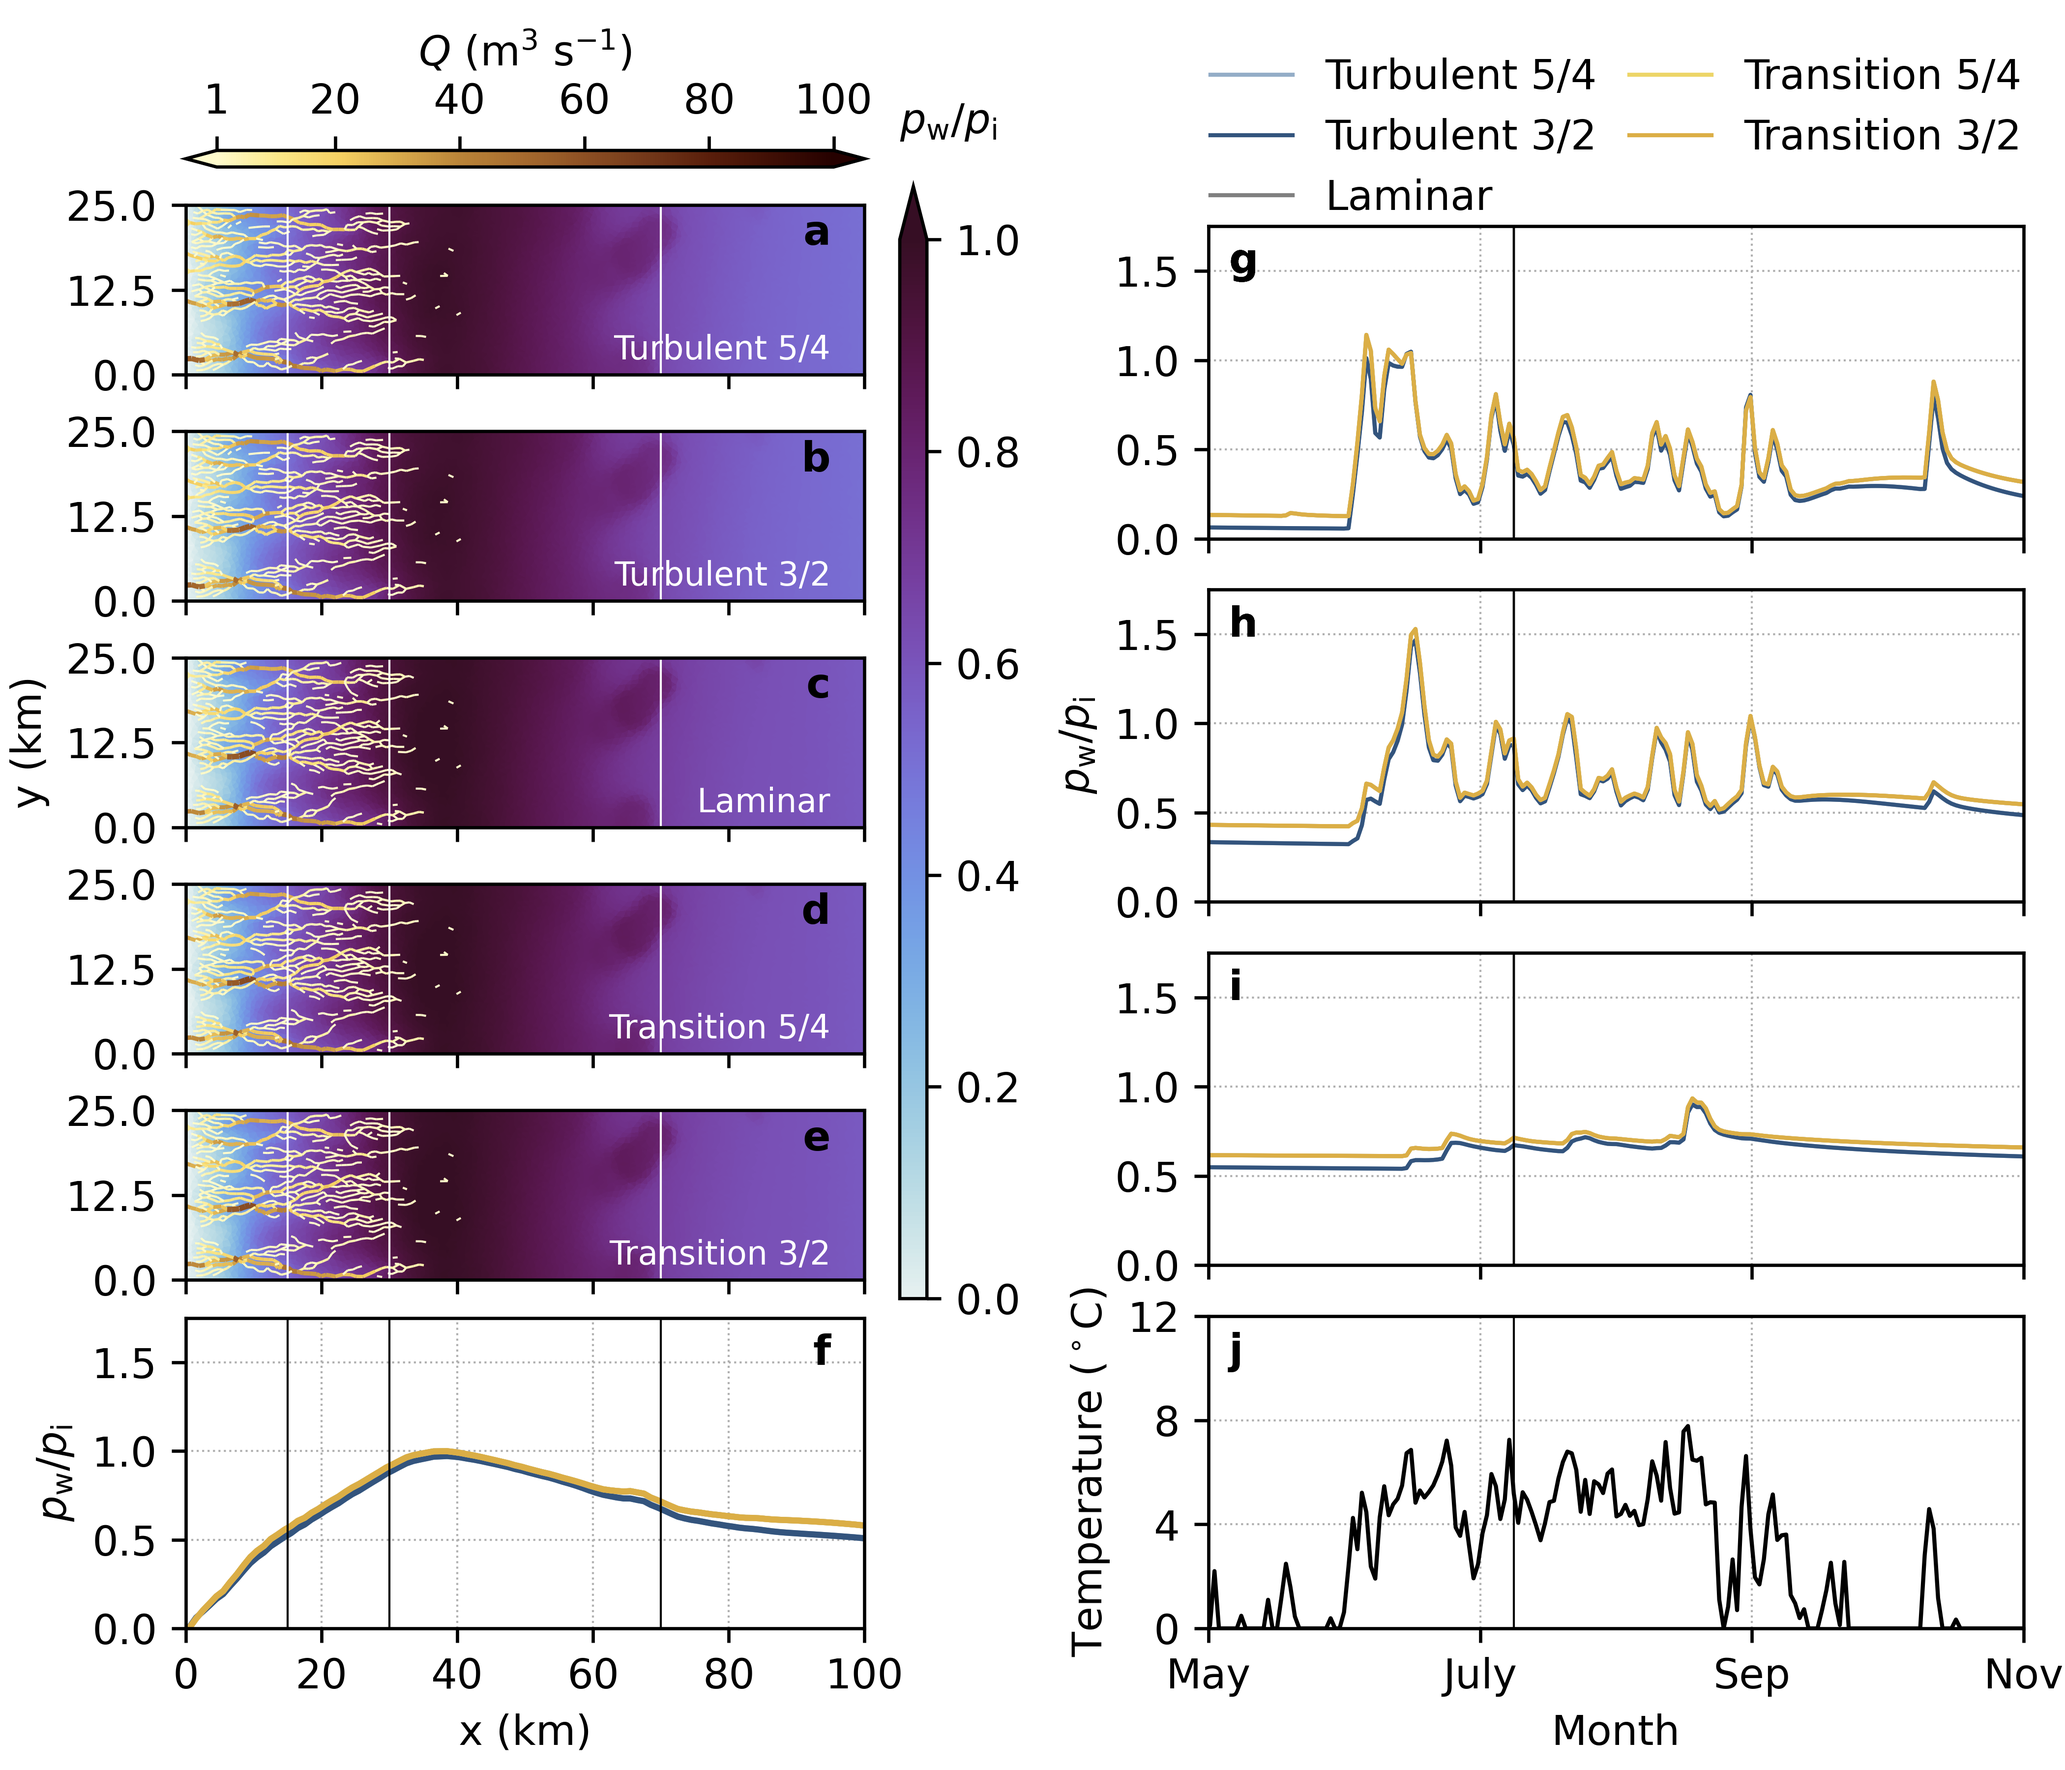
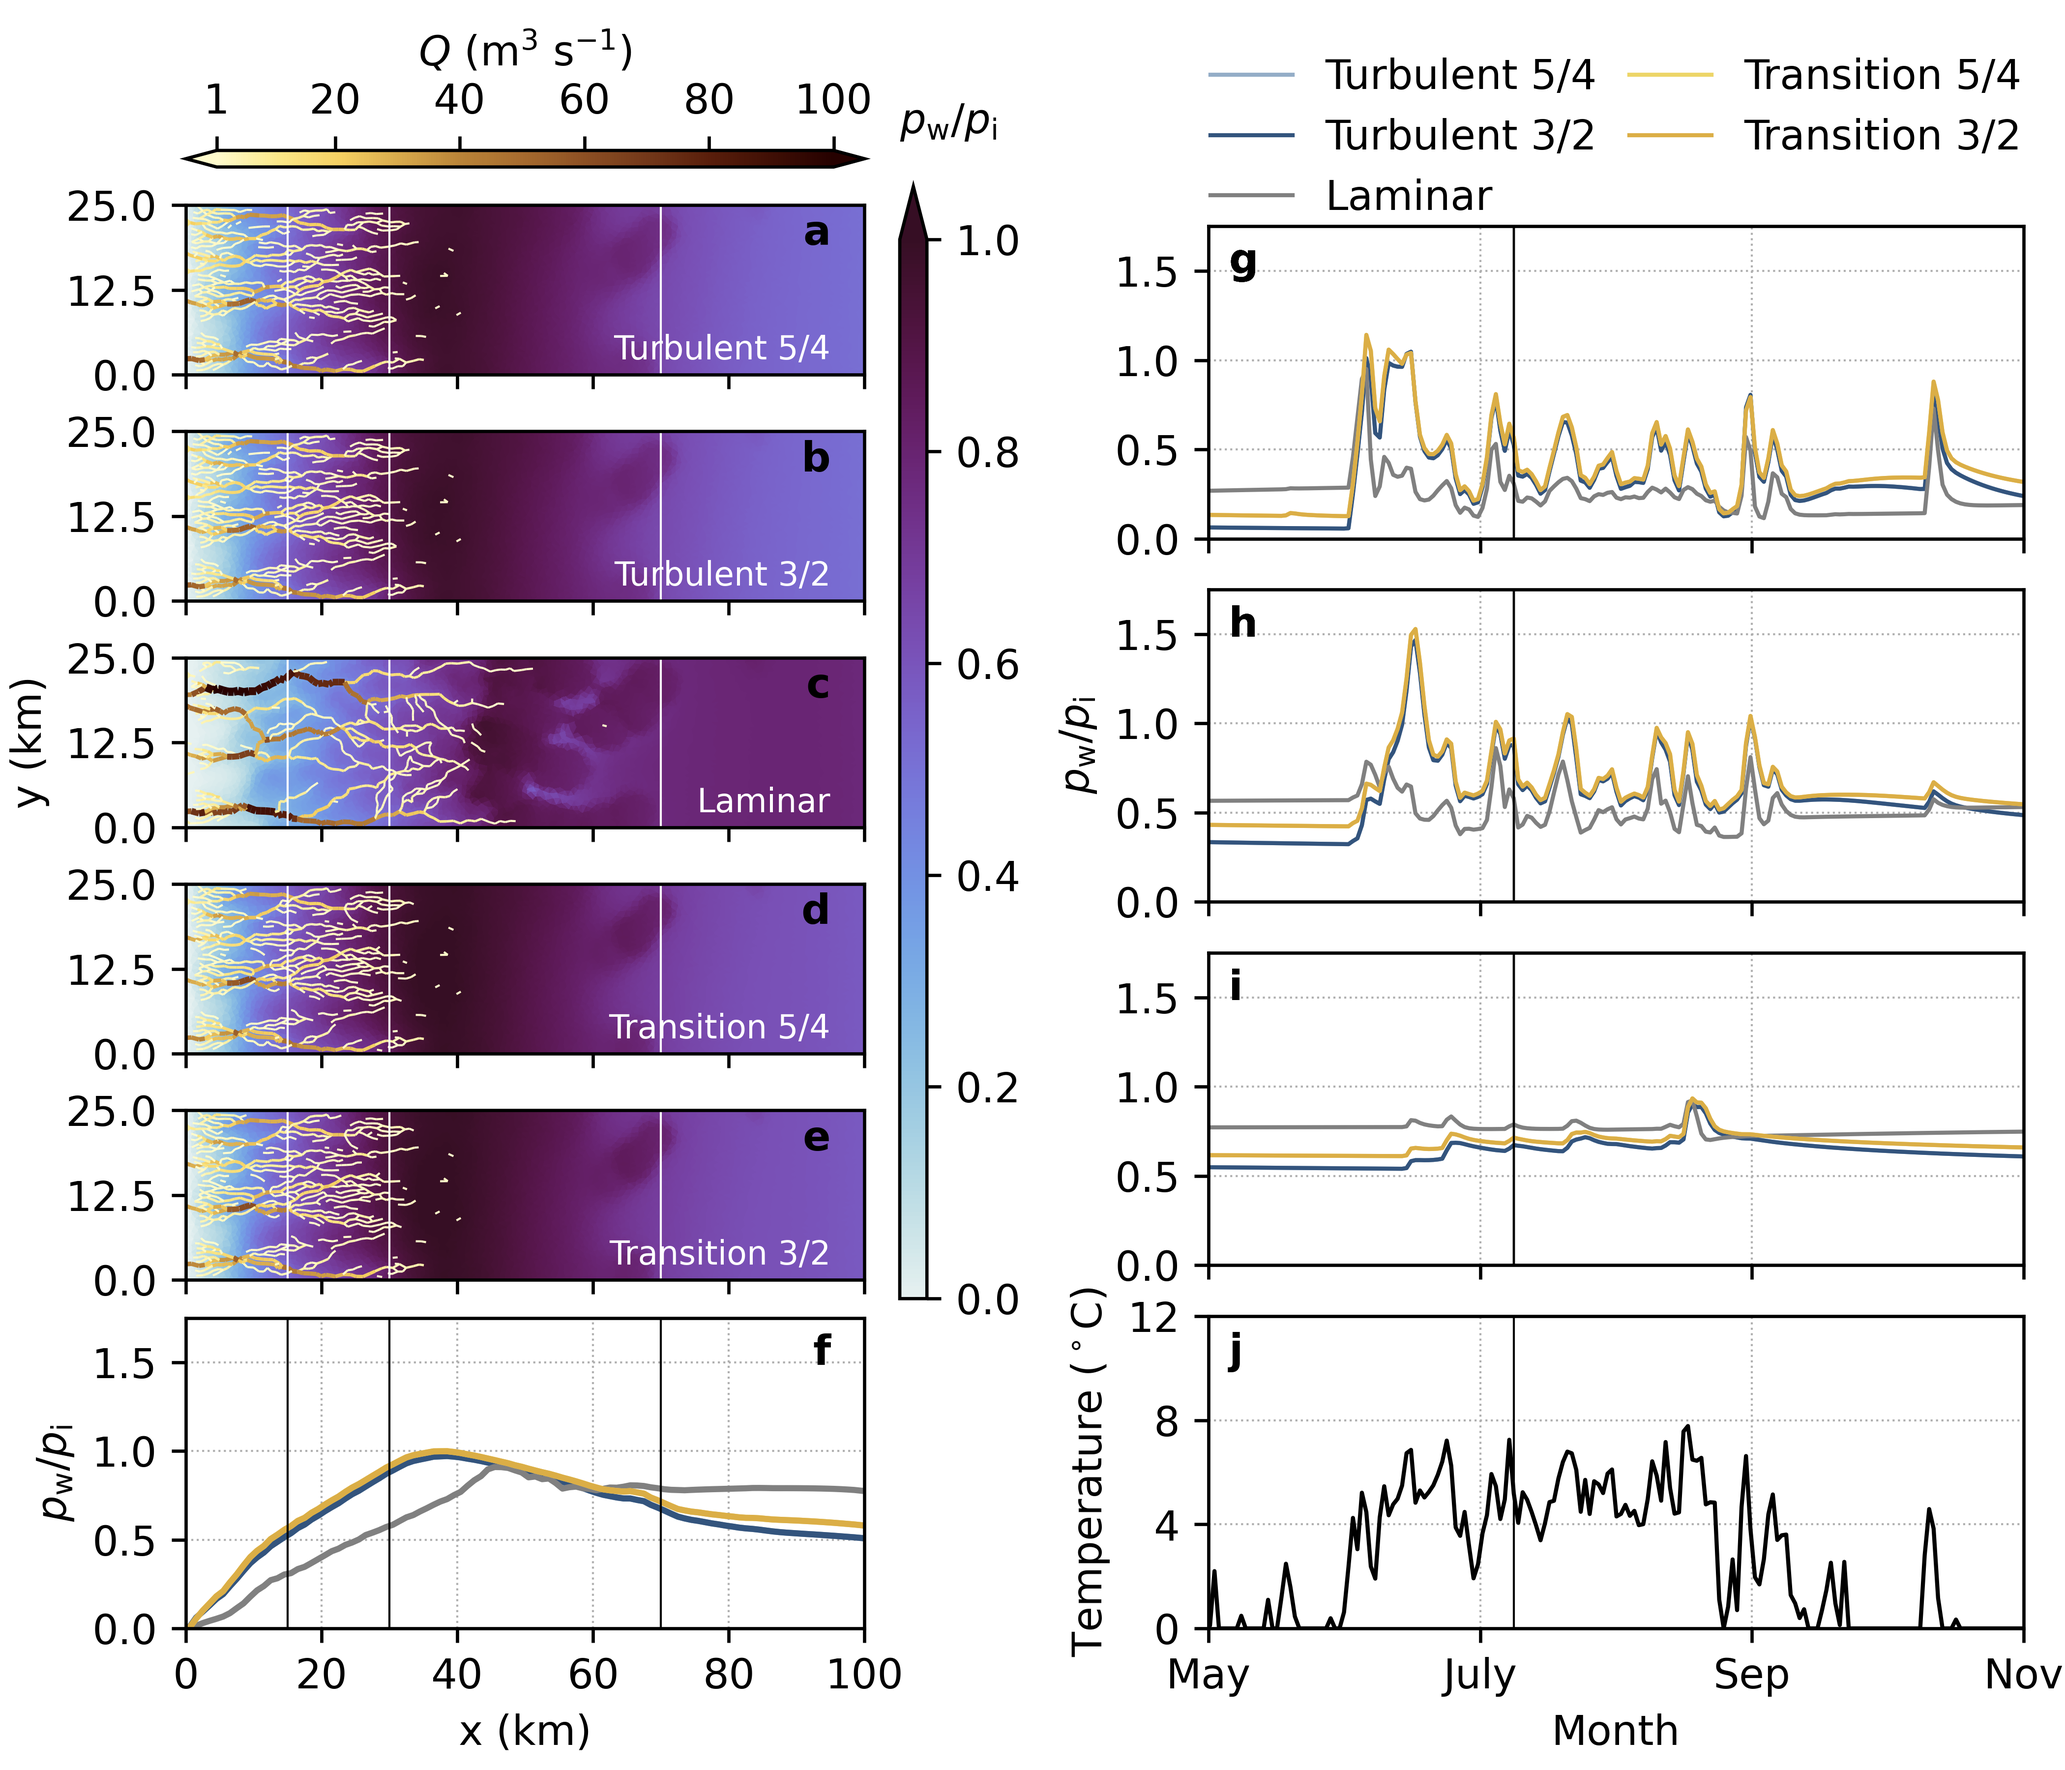
Sensitivity figure with laminar model

diff --git a/analysis/make_pressure_figs.py b/analysis/make_pressure_figs.py
@@ -105,7 +105,7 @@ fig_01 = plot_pressure_maps_timeseries(fnames, figname, Qmin=1, Qmax=100, melt_f
      ff_ylim=[0, 1.75], ff_yticks=[0, 0.5, 1, 1.5])
 """
 ## Case S01: Parameter sensitivity
-cases = [1, 1, 2, 2, 2]
+cases = [1, 1, 3, 2, 2]
 pattern = '../glads/S01b_parameter_sensitivity/RUN/output_%03d_seasonal.nc'
 fnames = [pattern % caseid for caseid in cases]
 figname = 'S01b_pressure_seasonal_params.png'
